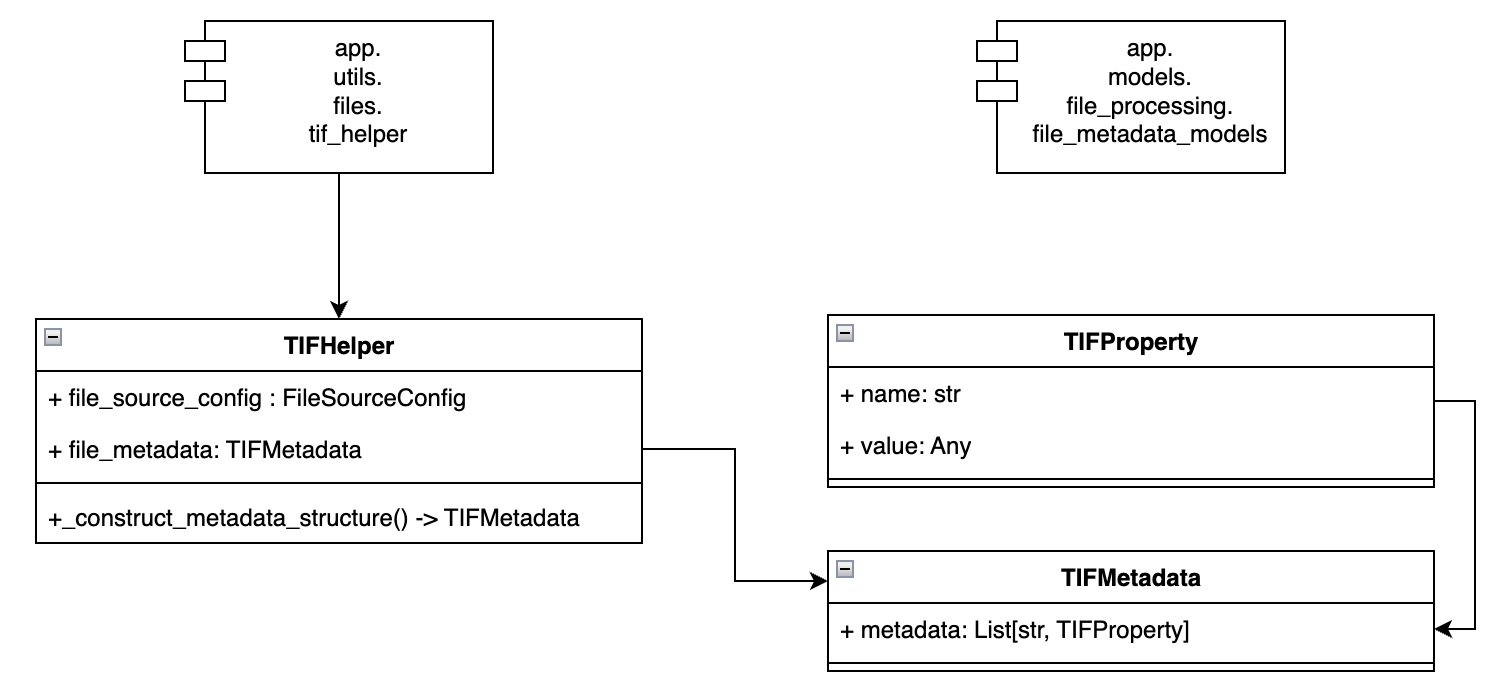
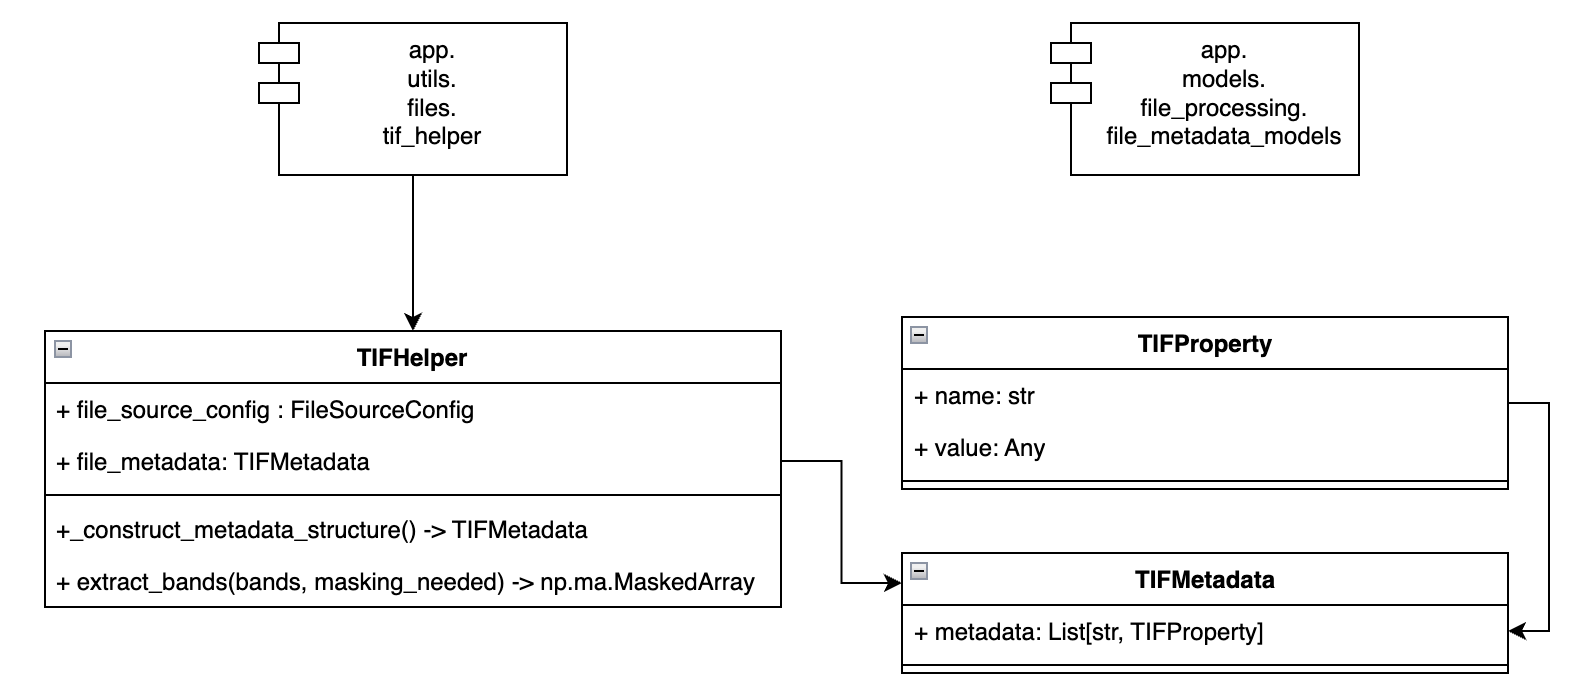
Enhance documentation on TIF file handling and add wavelength lookup guide
- Added a section in the file handling design documentation detailing the differences in band extraction between HE5 and TIF files, including the use of a band mapping dictionary.
- Introduced a new image, `tif_nuances.png`, to illustrate TIF file nuances.
- Created a new documentation file, `hsi_wavelengths.md`, to simplify wavelength lookups.

diff --git a/docs/file_handling/file_handling_design.md b/docs/file_handling/file_handling_design.md
@@ -26,3 +26,15 @@ The `TIFHelper` class is also defined similarly as follows:
 </p>
 
 
+### A note on band extraction from files.
+
+There is a subtle but important difference in the way bands are extracted from HE5 and TIF files. In the case of HE5, we pull the entire data cube from the file and then downstream processes can extract whatever band they want. In the case of TIF files, we pull out specific bands directly. Pulling in bands directly will mean a few things. The output of a band extraction is a 3d numpy array. However, since we pull bands out directly in the case of TIF files, the band indexes will get reset and we will have to map them back. This is why we use a band_mapping dictionary in the `BasicBandLevelVisualizationTIF` class. Similar corrections will have to be made whereever TIF files are handled. This is ugly, but necessary till a more comprehensive refactoring is done.
+
+Also note that BIL is the default in the case of HE5 files. However, in the case of TIF files, BSQ is the default. This is why we will have to convert the cube to BIP format for visualization in the `BasicBandLevelVisualizationTIF` class.
+
+*Also note that in the case of TIF files, the bands are indexed starting from 1. This means there is no band 0*
+
+<p align="center">
+  <img src="assets/tif_nuances.png" width="400" alt="File Handling Flow">
+</p>
+

diff --git a/docs/model_designs/hsi_wavelengths.md b/docs/model_designs/hsi_wavelengths.md
@@ -1,0 +1,1 @@
+## Making wavelength look up easy
